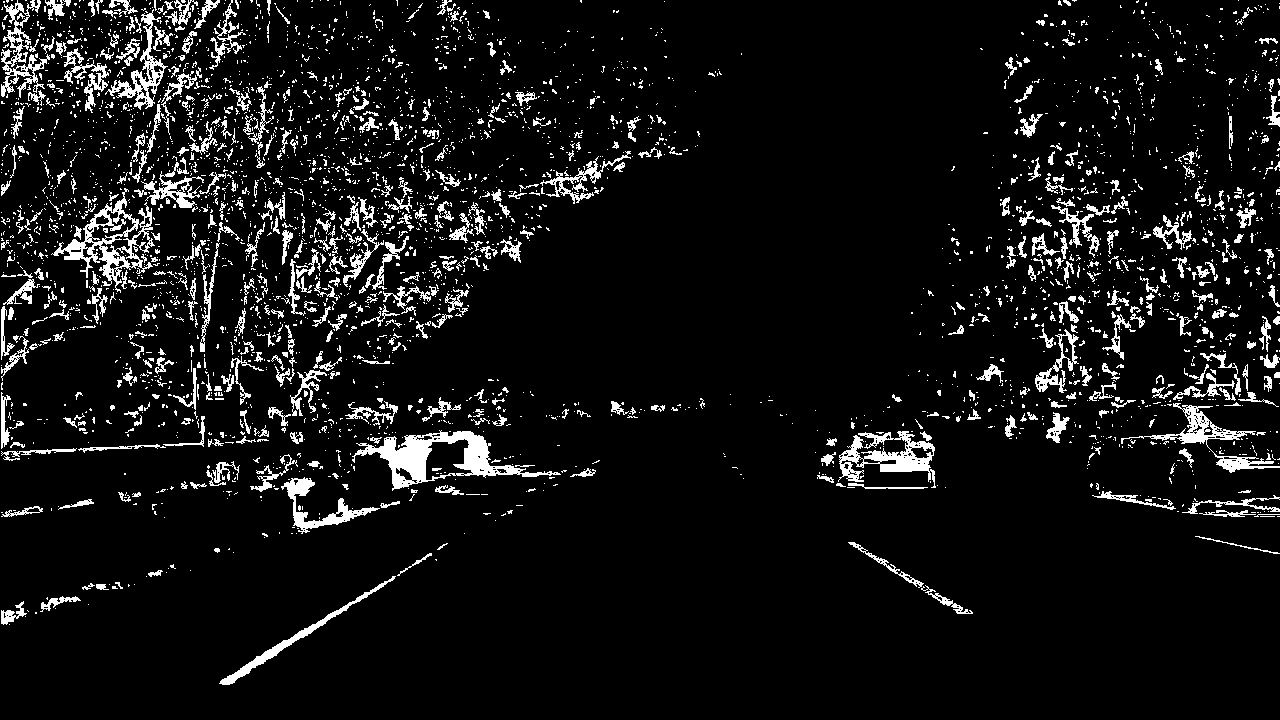
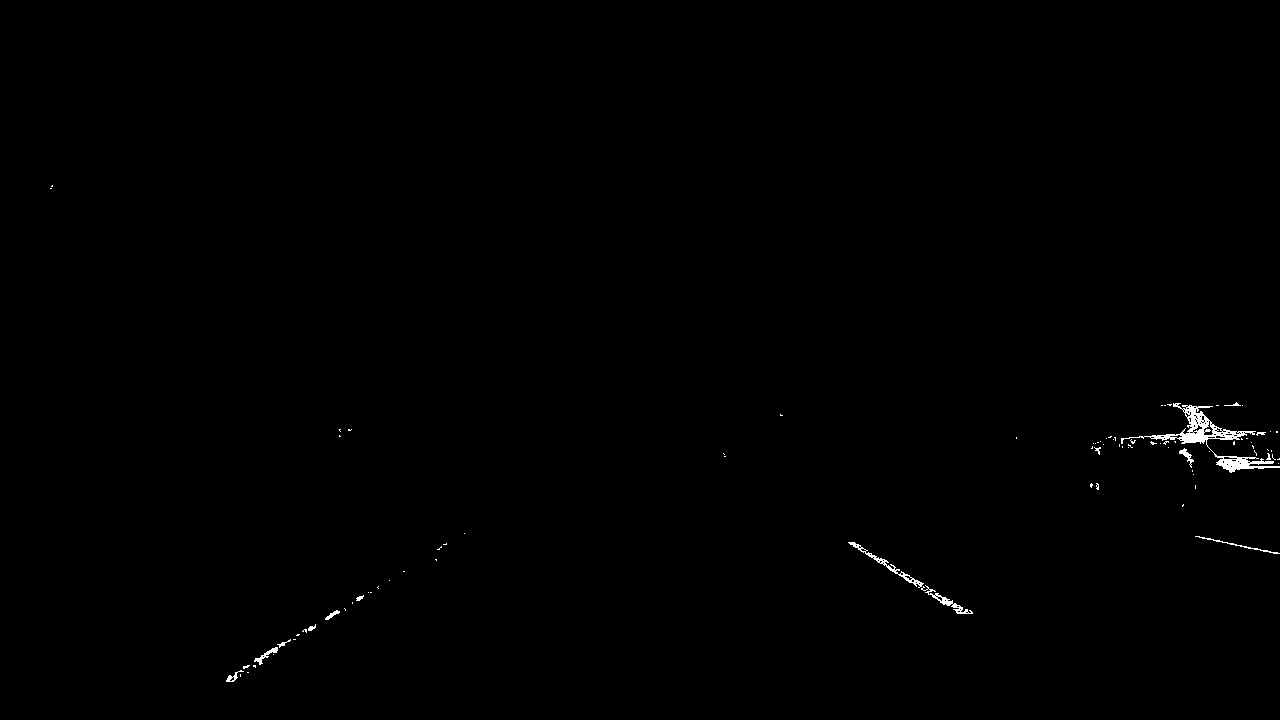
better color thresholding + distance to center of car

diff --git a/advanced_lane_finding.py b/advanced_lane_finding.py
@@ -7,7 +7,7 @@ import os
 import imageio
 import matplotlib.pyplot as plt
 from gradient_thresholds import combined_gradient_thresholds
-from color_thresholds import hls_select
+from color_thresholds import combined_color_thresholds
 from camera_calib import performCalibration
 from bev import get_warped_image
 from bev import get_inverse_warp
@@ -24,6 +24,9 @@ blind_search = True
 
 prev_leftFit = []
 prev_rightFit = []
+
+ym_per_pix = 30/720 # meters per pixel in y dimension
+xm_per_pix = 3.7/700 # meteres per pixel in x dimension
 
 
 # find lane lines. Code is mostly duplicate of suggested tutorial
@@ -158,10 +161,13 @@ def findLaneLines(binary_warped):
 	# Now our radius of curvature is in meters
 	#print(left_curverad, 'm', right_curverad, 'm')
 	curvature = (left_curverad+right_curverad)/2.0
-	if (abs(left_curverad-right_curverad)>400):
-		curvature_text = '          off reading'
+
+	center_pos = (width/2.0 - (left_fitx[-1]+right_fitx[2])/2.0)*xm_per_pix
+
+	if (abs(left_curverad-right_curverad)>500):
+		curvature_text = 'Position : {0:.2f} Curve :   not detectable'.format(center_pos)
 	else:
-		curvature_text = '{0:.2f}  | Left : {0:.2f} Right : {0:.2f}'.format(curvature,left_curverad,right_curverad)
+		curvature_text = 'Position : {0:.2f} Curve :   {0:.2f}  | Left : {0:.2f} Right : {0:.2f}'.format(center_pos,curvature,left_curverad,right_curverad)
 	# /////////////////////////////////////////////////////////////////////////////////
 
 
@@ -205,8 +211,9 @@ def process_frame(img):
 		
 
 	undistortedImg = cv2.undistort(img, mtx, dist, None, mtx)
-    #undistortedImg=img.copy()
-	hls_binary = hls_select(undistortedImg, thresh=(170,255))
+	#undistortedImg=img.copy()
+	hls_binary = combined_color_thresholds(undistortedImg, thresh=(170,255))
+
     # gradient / direction / magnitude . sobel thresh
 	combined_binary = combined_gradient_thresholds(undistortedImg,sobel_thresh=(40,120),magnitude_thresh = (40,120),direction_thresh=(0.7,1.3))
     
@@ -218,6 +225,7 @@ def process_frame(img):
 	warped = get_warped_image(threshOut)
 
 	lane_img,ploty,left_fitx,right_fitx,curvature_text = findLaneLines(warped)
+
 
 	warp_zero = np.zeros_like(warped).astype(np.uint8)
 	color_warp = np.dstack((warp_zero, warp_zero, warp_zero))
@@ -242,7 +250,7 @@ def process_frame(img):
 
 	result = np.hstack((resultColor,resultBinary))
 
-	cv2.putText(result,curvature_text,(1000,100),cv2.FONT_HERSHEY_SIMPLEX,2,(255,255,255),1)
+	cv2.putText(result,curvature_text,(400,100),cv2.FONT_HERSHEY_SIMPLEX,2,(255,255,255),1)
 
 	if (DISPLAY):
 		#cv2.imshow('0.img',img)
@@ -262,7 +270,7 @@ def main():
 	img = cv2.imread(path_to_img)
 	cv2.imwrite(PATH_TO_OUTPUT_IMAGES+'original.jpg',img)
 
-	hls_binary = hls_select(img, thresh=(200,255))
+	hls_binary = combined_color_thresholds(img, thresh=(200,255))
 	cv2.imwrite(PATH_TO_OUTPUT_IMAGES+'1SChan.jpg',hls_binary)
 	combined_binary = combined_gradient_thresholds(img,sobel_thresh=(30,150),magnitude_thresh = (30,150),direction_thresh=(0.7,1.3))
 
@@ -279,11 +287,12 @@ def main():
 	#cv2.waitKey(0)
 	#cv2.destroyAllWindows()
 
-	#return
+	cv2.imwrite(PATH_TO_OUTPUT_IMAGES+'exampleLanes.jpg',process_frame(img))
+
 
 	path_to_video_file = PATH_TO_VIDEO + 'project_video.mp4'
 	path_to_video_output = PATH_TO_VIDEO + 'output3.mp4'
-	clip = VideoFileClip(path_to_video_file)
+	clip = VideoFileClip(path_to_video_file)#.subclip(38,43)
 
 	# for each frame, process accordingly
 	out_clip = clip.fl_image(process_frame)

diff --git a/color_thresholds.py b/color_thresholds.py
@@ -15,6 +15,42 @@ def hls_select(img, thresh=(0, 255)):
     binary_output[(s_channel > thresh[0]) & (s_channel <= thresh[1])] = 255
     return binary_output
 
+# Lab b channel mask
+def lab_select(img,thresh = (0,255)):
+    lab = cv2.cvtColor(img, cv2.COLOR_BGR2LAB)
+    b_channel = lab[:,:,2]
+    binary_output = np.zeros_like(b_channel)
+    binary_output[(b_channel > thresh[0]) & (b_channel <= thresh[1])] = 255
+    return binary_output
+
+# Luv L channel mask
+def luv_select(img,thresh = (0,255)):
+    luv = cv2.cvtColor(img, cv2.COLOR_BGR2LUV)
+    l_channel = luv[:,:,0]
+    binary_output = np.zeros_like(l_channel)
+    binary_output[(l_channel > thresh[0]) & (l_channel <= thresh[1])] = 255
+    return binary_output
+
+def combined_color_thresholds(img,thresh = (0,255)):
+    hls_binary = hls_select(img, thresh)
+    #cv2.imshow('SChan',hls_binary)
+
+    lab_binary = lab_select(img, thresh)
+    #cv2.imshow('BChan',lab_binary)
+
+    luv_binary = luv_select(img, thresh)
+    #cv2.imshow('LChan',luv_binary)
+
+    output = np.zeros_like(luv_binary)
+    output[(hls_binary==255)&((lab_binary==255)|(luv_binary==255))] = 255
+
+    #cv2.imshow('Output',output)
+
+    #cv2.waitKey(0)
+    #cv2.destroyAllWindows()
+
+    return output
+
 # test on images from test-set.
 # apply combined gradient-thresholds along with color threshold 
 def main():
@@ -26,11 +62,21 @@ def main():
     hls_binary = hls_select(img, thresh=(170,255))
     cv2.imshow('SChan',hls_binary)
 
-    combined_binary = combined_gradient_thresholds(img,sobel_thresh=(40,120),magnitude_thresh = (40,120),direction_thresh=(0.7,1.3))
-    cv2.imshow('GradientCombined',combined_binary)
+    lab_binary = lab_select(img, thresh=(170,255))
+    cv2.imshow('BChan',lab_binary)
 
-    output = np.zeros_like(combined_binary)
-    output[(hls_binary==255)|(combined_binary==255)] = 255
+    luv_binary = luv_select(img, thresh=(220,255))
+    cv2.imshow('LChan',luv_binary)
+
+
+
+    #combined_binary = combined_gradient_thresholds(img,sobel_thresh=(40,120),magnitude_thresh = (40,120),direction_thresh=(0.7,1.3))
+    #cv2.imshow('GradientCombined',combined_binary)
+
+    #output = np.zeros_like(combined_binary)
+    #output[(hls_binary==255)|(combined_binary==255)] = 255
+
+    output = combined_color_thresholds(img,thresh = (190,255))
 
     cv2.imshow('Output',output)
 

diff --git a/camera_calib.py b/camera_calib.py
@@ -6,7 +6,7 @@ import matplotlib.image as mpimg
 import glob
 
 PATH_TO_CALIB_IMG = '/home/andi/Desktop/Udacity/CarND-Advanced-Lane-Lines/camera_cal/'
-Test_IMG = '/home/andi/Desktop/Udacity/CarND-Advanced-Lane-Lines/camera_cal/test_image.jpg'
+Test_IMG = '/home/andi/Desktop/Udacity/CarND-Advanced-Lane-Lines/test_images/straight_lines1.jpg'
 nx=9
 ny=6
 
@@ -57,9 +57,13 @@ def performCalibration(img):
 	objpoints,imgpoints = getCalibrationStructures()
 
 	ret, mtx, dist, rvecs, tvecs = cv2.calibrateCamera(objpoints, imgpoints, gray.shape[::-1], None, None)
-	#dst = cv2.undistort(img, mtx, dist, None, mtx)
-	#cv2.imshow('UndistortedTest',dst)
+	dst = cv2.undistort(img, mtx, dist, None, mtx)
 
+	#image = np.hstack((img,dst))
+	#cv2.imwrite('./Undistorted.png', image)
+	#cv2.imshow('UndistortedTest',image)
+
+	#cv2.waitKey(0)
 	#cv2.destroyAllWindows()
 	return mtx,dist
 

diff --git a/writeup_template.md b/writeup_template.md
@@ -8,6 +8,8 @@
 [image3]: ./output_images/2GradientCombined.jpg "Combined Sobel Gradients Mask"
 [image4]: ./output_images/3CombinedThresholds.jpg "Combined Color+Gradient Thresholds"
 [image5]: ./output_images/4Bev.jpg "Birds Eye Viuew of the Combined Mask"
+[image6]: ./output_images/Undistorted.png "Undistorted side-by-side comparison"
+[image7]: ./output_images/Undistorted-test.png "Undistorted straight lines side-by-side comparison"
 [video1]: ./output.mp4 "Output Video"
 
 
@@ -19,10 +21,18 @@ The code i used for camera calibration can be found inside of "camera_calib.py" 
 For a given image, i use the pre-provided chess-board images to "findChessboardCorners" and then compute the calibration parameters/distorsion coefficients from cv2.calibrateCamera method.
 cv2.undistort uses these parameters to yield an undistorted image.
 
+![alt text][image6]
+![alt text][image7]
+
 ### Pipeline (single images)
 
 "gradient_thresholds.py" file contains all the methods required for computing the gradient masks (sobel on X, sobel on Y, direction threshold, magnitude threshold) and a utility "combine_gradient_thresholds" method that takes all of the above and creates a unified binary mask.
 The values for the thresholds were experimentally tweaked, around their suggested values, in order to observe the effect on the binary output.
+
+"color_thresholds.py" file contains all the methods required for computing the color masks ( s channel in hls, b channel in Lab, L channel in Luv),
+and a utility "combine_color_thresholds" method that takes all of the above and creates a unified binary mask from color.
+I perform Hls_binary & (Lab_binary | Luv binary) logical operation in order to obtain my best result.
+The shadow part from the project_video is now properly handled 
 
 After computing a combined_mask, the pipeline extracts the "Birds Eye View" image. (incapsulated in "bev.py" file)
 The warp points for source and destination were computed with the help of an offset of 100 pixels (offset/2, +- other experimentally obtained value) in order to maintain paralel lines (as close as possible) in the perpendicular perspective transform (in the context of straight line on the road)
@@ -47,13 +57,13 @@ The curvature was also computed according to the provided material(line 141 in a
 For video processing I used moviepy.editor VideoFileClip library and constructed a pipeline callback method "process_frame(img)". 
 I had several failed attepts of building this with cv2 methods, but my ffmpeg instalation seemed to cause issues with the reading of the videoCap.
 
-The "provess_frame(img)" callback follows the previously described pipeline (Compute undistorsion params once ---> undistort -> SChannelColorThresh -> CombinedGradientThresh -> BEV -> findLaneLines -> reproject onto original frame) and returns a stacked view of both original image + lane selection and combined_binary_image + lane selection.
+The "provess_frame(img)" callback follows the previously described pipeline (Compute undistorsion params once ---> undistort -> CombinedColorThresh -> CombinedGradientThresh -> BEV -> findLaneLines -> reproject onto original frame) and returns a stacked view of both original image + lane selection and combined_binary_image + lane selection.
 
 This helped me better understand what my pipeline lacks and how to tune my thresholds for optimal result.
 I did not approach the challenging videos (other than viewing results) because i am already very late with my submission.
 
 
-Here's a [link to my video result](./project_video.mp4)
+Here's a [link to my video result](./output.mp4)
 
 ---
 
